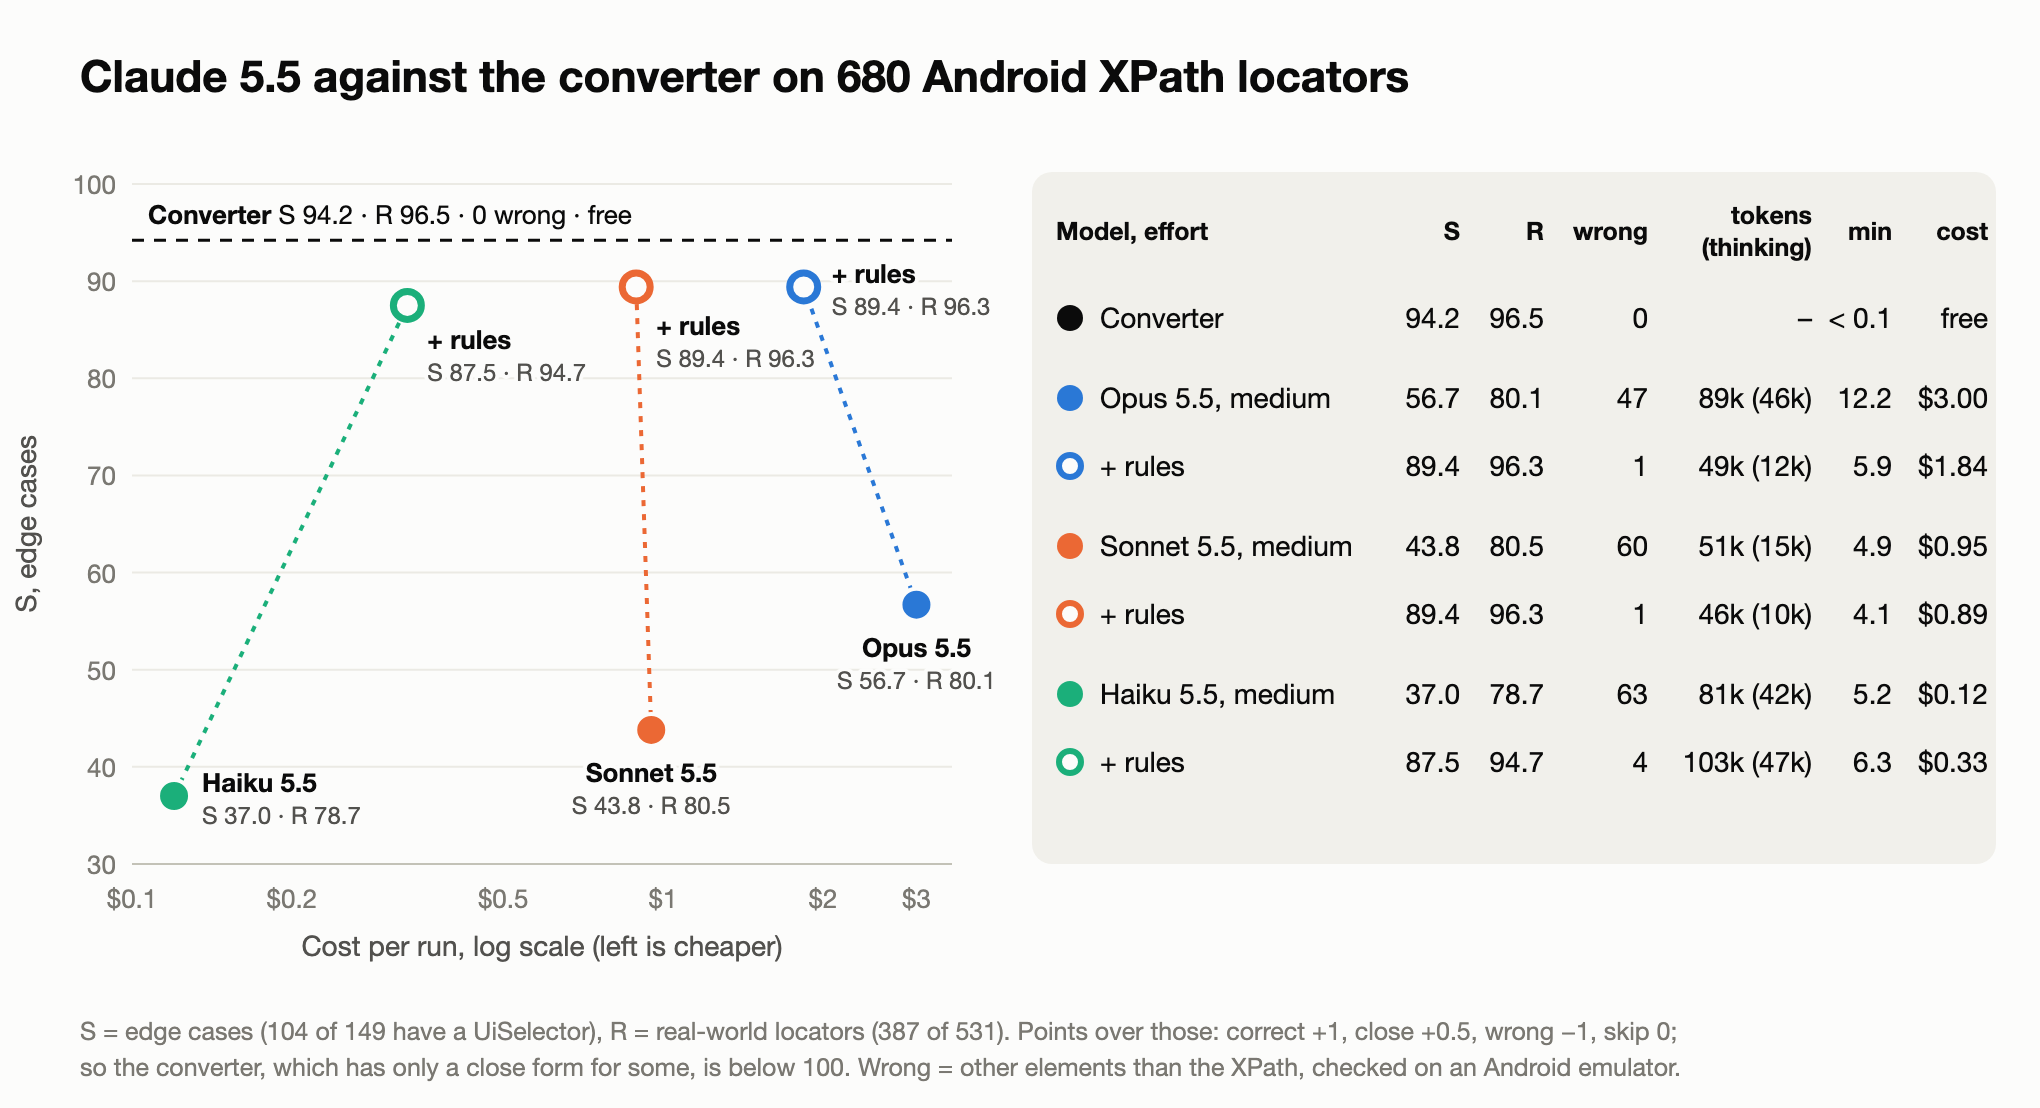
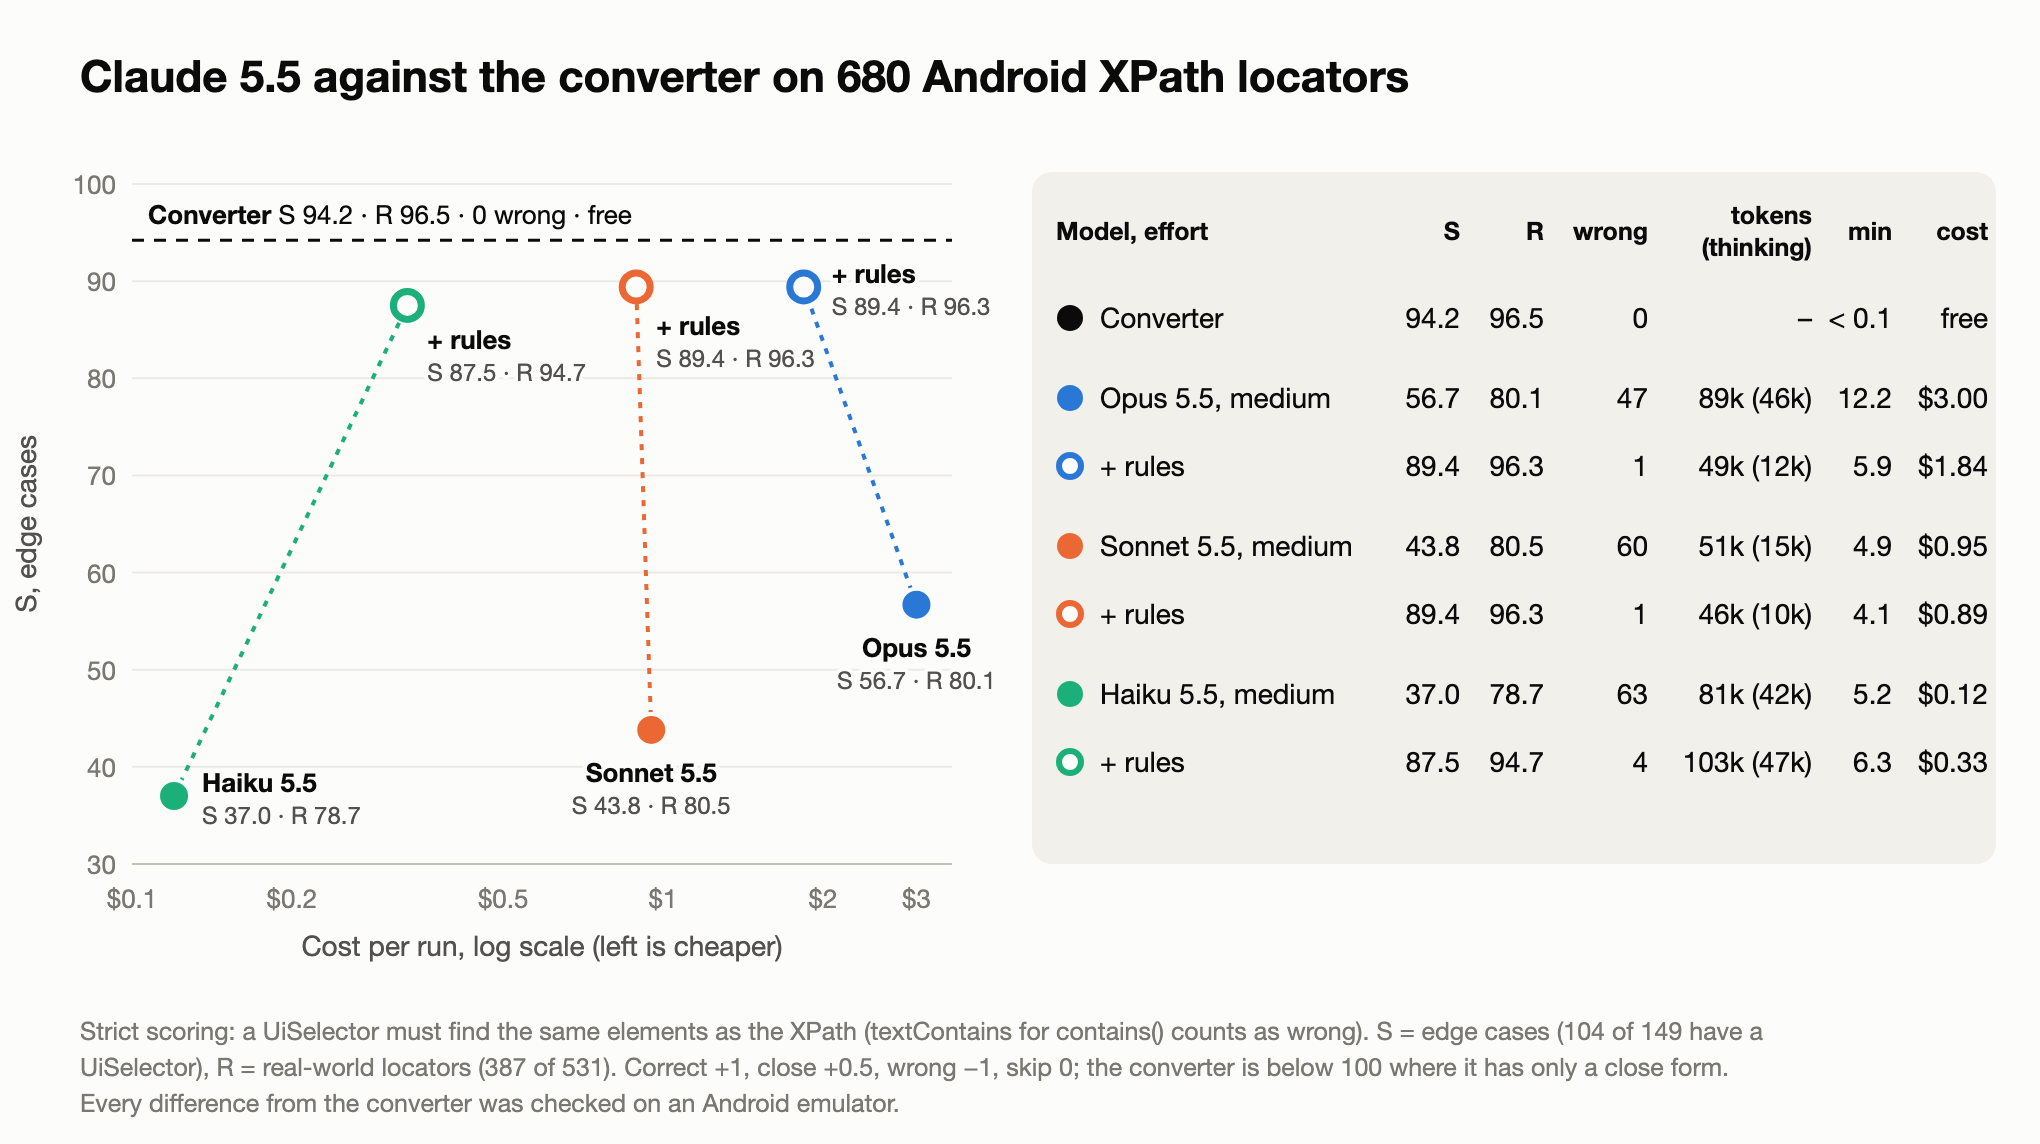
docs: chart and article say the scoring is strict; what loose scoring would change

diff --git a/docs/articles/img/charts.js b/docs/articles/img/charts.js
@@ -149,9 +149,10 @@ const write = (name, s) => fs.writeFileSync(path.join(out, name), s);
     b += row('+ rules', m.col, true, m.rules);
     ty += 6;
   }
-  b += t(40, 520, 'S = edge cases (104 of 149 have a UiSelector), R = real-world locators (387 of 531). Points over those: correct +1, close +0.5, wrong −1, skip 0;', { fill: C.muted, size: 12.5 });
-  b += t(40, 538, 'so the converter, which has only a close form for some, is below 100. Wrong = other elements than the XPath, checked on an Android emulator.', { fill: C.muted, size: 12.5 });
-  write('llm-chart.svg', svg(1020, 554, 'Claude 5.5 models against the converter: S score vs cost, no rules and with rules, with S, R, wrong answers, tokens, time and cost', b));
+  b += t(40, 520, 'Strict scoring: a UiSelector must find the same elements as the XPath (textContains for contains() counts as wrong). S = edge cases (104 of 149 have a', { fill: C.muted, size: 12.5 });
+  b += t(40, 538, 'UiSelector), R = real-world locators (387 of 531). Correct +1, close +0.5, wrong −1, skip 0; the converter is below 100 where it has only a close form.', { fill: C.muted, size: 12.5 });
+  b += t(40, 556, 'Every difference from the converter was checked on an Android emulator.', { fill: C.muted, size: 12.5 });
+  write('llm-chart.svg', svg(1020, 572, 'Claude 5.5 models against the converter: S score vs cost, no rules and with rules, with S, R, wrong answers, tokens, time and cost', b));
 }
 
 // 3. Mistakes of the three no-rules runs, by kind (donut).

diff --git a/docs/articles/01-xpath-to-uiselector.md b/docs/articles/01-xpath-to-uiselector.md
@@ -135,7 +135,7 @@ I used the same setup as in the [iOS comparison](https://dev.to/mikhail_yesipchu
 - **One request per run:** "convert each one to a UiSelector, or skip it with a reason". Claude Code CLI in an empty folder, Read and Write tools only, effort `medium`, one run per model.
 - **The judge:** every answer that differs from the converter's ran on the emulator next to the XPath.
 
-**Scoring:** a correct `UiSelector` earns 1 point, a close one 0.5, a skip 0, and a **wrong one −1** (on iOS a wrong chain scored 0): it is worse than a skip, because it looks like a valid locator and finds another element. **S** is the score on the edge cases, **R** on the real-world locators, each out of 100 over the locators that have a `UiSelector` at all: 104 of 149 edge cases and 387 of 531 real ones. The converter scores **S 94.2 / R 96.5**, not 100, because for some locators it has only a close form, worth half a point. No model beat it on any locator.
+**Scoring** is strict: a `UiSelector` counts as correct only if it finds the same elements as the XPath. A correct one earns 1 point, a close one 0.5, a skip 0, and a **wrong one −1** (on iOS a wrong chain scored 0): it is worse than a skip, because it looks like a valid locator and finds another element. **S** is the score on the edge cases, **R** on the real-world locators, each out of 100 over the locators that have a `UiSelector` at all: 104 of 149 edge cases and 387 of 531 real ones. The converter scores **S 94.2 / R 96.5**, not 100, because for some locators it has only a close form, worth half a point. No model beat it on any locator.
 
 ![S score against cost for three Claude 5.5 models, with and without the rules prompt, and a table with S, R, wrong answers, tokens, time and cost](img/llm-chart.png)
 
@@ -181,7 +181,7 @@ By the definition of this test, yes: `contains(@text,"Total")` does not find "TO
 
 In a real app it is less clear. Many people who write `contains(@text,"Total")` probably never thought about case, and a case-insensitive locator survives a designer switching a label to upper case. The cost is the other side of the same thing: a migration of hundreds of locators quietly makes each one wider. Where a "TOTAL" header sits above the "Total: $5" line, `findElement` now returns the header. And a check that the label reads "Total" no longer catches a change to "TOTAL".
 
-That is why the converter is strict by default and `--loose` is a flag you turn on knowingly. In fact, 55 of the 65 answers are character for character what the converter writes with `--loose`; the other 10 are edge cases where `--loose` keeps the strict form (`substring()`, `matches()`, `text()`, a value with `\`). So without rules, Claude converts the way `--loose` does, only without saying that the locator became wider. If you count `textContains` as acceptable, the models made **at least 27, 37 and 41** wrong answers without rules instead of 47, 60 and 63. Which side are you on? Tell me in the comments.
+That is why the converter is strict by default and `--loose` is a flag you turn on knowingly. In fact, 55 of the 65 answers are character for character what the converter writes with `--loose`; the other 10 are edge cases where `--loose` keeps the strict form (`substring()`, `matches()`, `text()`, a value with `\`). So without rules, Claude converts the way `--loose` does, only without saying that the locator became wider. If you count `textContains` as acceptable, the models made **at least 27, 37 and 41** wrong answers without rules instead of 47, 60 and 63. Scored that way, S rises by 6–7 points and R by 5–6, still far below the converter: the rest of the gap is the other mistakes. Which side are you on? Tell me in the comments.
 
 ### A prompt with rules
 
